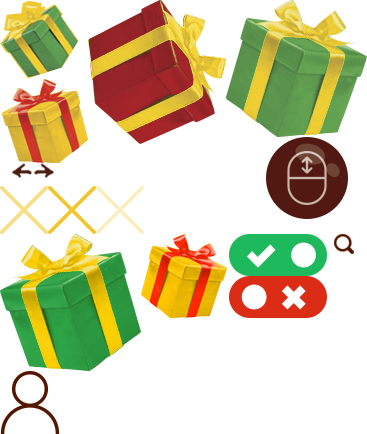
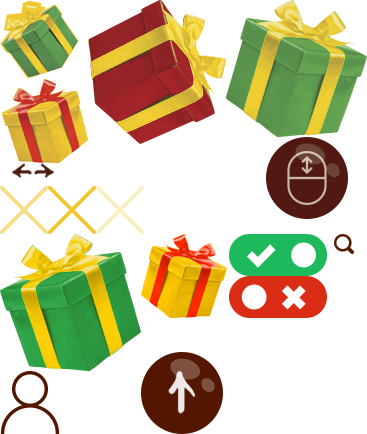
Added mobile menu

Changed region(s): [[0.3597, 0.8088, 0.6294, 1.0]]

diff --git a/css/style2.less b/css/style2.less
@@ -63,10 +63,22 @@ body {
 	height: 20px;
 }
 
+.ico-arrow-up {
+	background-position: -141px -352px;
+	width: 82px;
+	height: 82px;
+}
+
 .img-responsive {
 	display: block;
 	max-width: 100%;
 	height: auto;
+}
+
+.js-mobilemenu-toggle {
+	top: -15px;
+	left: -10px;
+	z-index: 503;
 }
 
 .prizes-blocks {
@@ -458,6 +470,45 @@ form {
 		}
 		.description {
 			font-size: 11px;
+		}
+	}
+
+	header {
+		.header-nav {
+			position: absolute;
+			top: -15px;
+			left: 0;
+			width: 100%;
+			background-color: #fff;
+			margin: 0;
+			padding: 20px 0;
+			z-index: 502;
+			li {
+				display: block;
+				width: 100%;
+				text-align: center;
+				position: relative;
+				a {
+					display: inline-block;
+					width: 100%;
+					padding: 15px 0;
+				}
+				&:after {
+					content: "";
+					position: absolute;
+					bottom: 0;
+					left: 0;
+					background: url(../images/menu_line.png) no-repeat center center;
+					width: 100%;
+					height: 1px;
+				}
+				&:last-child:after {
+					display: none;
+				}
+			}
+			&.active {
+				display: block;
+			}
 		}
 	}
 }

diff --git a/winners.html b/winners.html
@@ -38,7 +38,9 @@
 						<div class="col-lg-6 col-md-8 col-sm-9 pull-right navigation__wrapper">
 							<div class="userpanel">
 								<div class="col-xs-3 visible-xs">
-									<a href="javascript:void(0);" class="js-mobilemenu-toggle"><i class="glyphicon glyphicon-menu-hamburger"></i></a>
+									<a href="javascript:void(0);" class="js-mobilemenu-toggle">
+										<img src="./images/sandwich.png" alt="" class="js-menu__switch-link">
+									</a>
 								</div>
 								<div class="col-sm-12 pull-right userpanel-login">
 									<ul class="list-inline text-right">
@@ -64,6 +66,11 @@
 								</li>
 								<li>
 									<a href="javascript:void(0);" title="Правила">Правила</a>
+								</li>
+								<li class="visible-xs">
+									<a href="javascript:void(0);" class="js-menu__switch-link">
+										<i class="ico ico-arrow-up"></i>
+									</a>
 								</li>
 							</ul>
 						</div>

diff --git a/js/style.js b/js/style.js
@@ -9,7 +9,7 @@ $(document).ready(function() {
 				slidesToScroll: 2,
 			}
 		}, {
-			breakpoint: 768,
+			breakpoint: 860,
 			settings: {
 				slidesToShow: 1,
 				slidesToScroll: 1,
@@ -34,6 +34,21 @@ $(document).ready(function() {
 	jQuery('input').iCheck({
 		checkboxClass: 'icheckbox_minimal',
 		increaseArea: '20%' // optional
+	});
+
+	jQuery('.js-menu__switch-link').on('click', function(event) {
+		event.preventDefault();
+
+		if (jQuery(this).parents('.js-mobilemenu-toggle').length) {
+			if (jQuery(this).hasClass('active')) {
+				jQuery(this).removeClass('active');
+			} else {
+				jQuery(this).addClass('active');
+			}
+		} else {
+			jQuery('.js-mobilemenu-toggle .js-menu__switch-link').removeClass('active');
+		}
+		jQuery(this).parents('.navigation__wrapper').find('.header-nav').toggleClass('active');
 	});
 });
 
